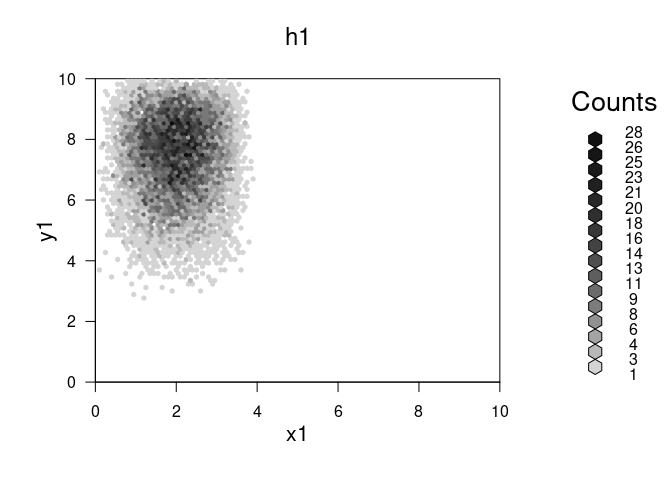
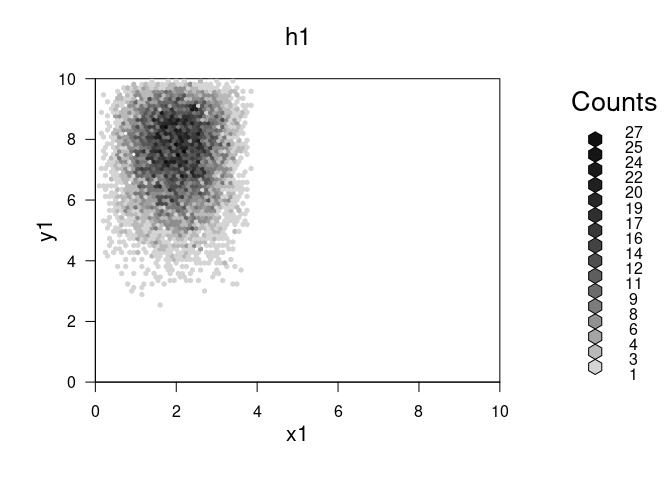
Updated hexplot post

Changed region(s): [[0.125, 0.1562, 0.375, 0.625], [0.9375, 0.25, 0.9688, 0.4688], [0.9375, 0.5312, 0.9688, 0.5625]]

diff --git a/_posts/2023-03-17-ConcatenatingHexPlots.md b/_posts/2023-03-17-ConcatenatingHexPlots.md
@@ -61,7 +61,7 @@ plot(h2,main="h2")
 ![](/assets/img/ConcatenateHexPlots/unnamed-chunk-1-2.png)<!-- -->
 
 ``` r
-plot(h3,main="h2")
+plot(h3,main="h3")
 ```
 
 ![](/assets/img/ConcatenateHexPlots/unnamed-chunk-1-3.png)<!-- -->
@@ -78,7 +78,7 @@ What we want to do is combine the hexbins without storing the entire
 vector in memory.
 
 The hexbin object seems to store cell ids and weights separately, which
-is great for us. On disk, the hex object is 4.4464^{4} bytes, whereas
+is great for us. On disk, the hex object is 4.3152^{4} bytes, whereas
 the original vectors were 1.60096^{5} bytes. So the hexbin object does
 not store the original data.
 
@@ -97,15 +97,15 @@ c(h1,h2,h3)
 
     ## [[1]]
     ## 'hexbin' object from call: hexbin(x = x1, y = y1, xbins = 100, shape = 0.75, xbnds = c(0,      10), ybnds = c(0, 10)) 
-    ## n = 10000  points in nc = 1648  hexagon cells in grid dimensions  88 by 101 
+    ## n = 10000  points in nc = 1593  hexagon cells in grid dimensions  88 by 101 
     ## 
     ## [[2]]
     ## 'hexbin' object from call: hexbin(x = x2, y = y2, xbins = 100, shape = 0.75, xbnds = c(0,      10), ybnds = c(0, 10)) 
-    ## n = 10000  points in nc = 1606  hexagon cells in grid dimensions  88 by 101 
+    ## n = 10000  points in nc = 1619  hexagon cells in grid dimensions  88 by 101 
     ## 
     ## [[3]]
     ## 'hexbin' object from call: hexbin(x = x3, y = y3, xbins = 100, shape = 0.75, xbnds = c(0,      10), ybnds = c(0, 10)) 
-    ## n = 10000  points in nc = 3974  hexagon cells in grid dimensions  88 by 101
+    ## n = 10000  points in nc = 3988  hexagon cells in grid dimensions  88 by 101
 
 It appears that the cell id’s are mapped to the grid. You can tell by
 making a table of overlapping cell id’s from the above hexbin objects:
@@ -117,9 +117,9 @@ outer(celllist,celllist,Vectorize(\(x,y) sum(x %in% y)))
 ```
 
     ##      [,1] [,2] [,3]
-    ## [1,] 1648    0  776
-    ## [2,]    0 1606  723
-    ## [3,]  776  723 3974
+    ## [1,] 1593    0  731
+    ## [2,]    0 1619  758
+    ## [3,]  731  758 3988
 
 h1 and h2 have no shared cell id’s – but h3 overlaps with both 1 and 2.
 This is JUST what we would expect if the cell ids line up with a
@@ -140,12 +140,12 @@ data.frame(h2cellid=h2@cell[h2@cell %in% tcells],
            y3=h3xy$y[h3@cell %in% tcells])
 ```
 
-    ##   h2cellid h3cellid  x2  x3        y2        y3
-    ## 1      671      671 6.4 6.4 0.6928203 0.6928203
-    ## 2      684      684 7.7 7.7 0.6928203 0.6928203
-    ## 3      687      687 8.0 8.0 0.6928203 0.6928203
-    ## 4      883      883 7.4 7.4 0.9237604 0.9237604
-    ## 5      885      885 7.6 7.6 0.9237604 0.9237604
+    ##   h2cellid h3cellid   x2   x3        y2        y3
+    ## 1      473      473 6.80 6.80 0.4618802 0.4618802
+    ## 2      579      579 7.35 7.35 0.5773503 0.5773503
+    ## 3      673      673 6.60 6.60 0.6928203 0.6928203
+    ## 4      772      772 6.45 6.45 0.8082904 0.8082904
+    ## 5      776      776 6.85 6.85 0.8082904 0.8082904
 
 Cell ids map to specific points on an integer grid defining the possible
 hexes. Now we can make our function by simply merging the slots in the
